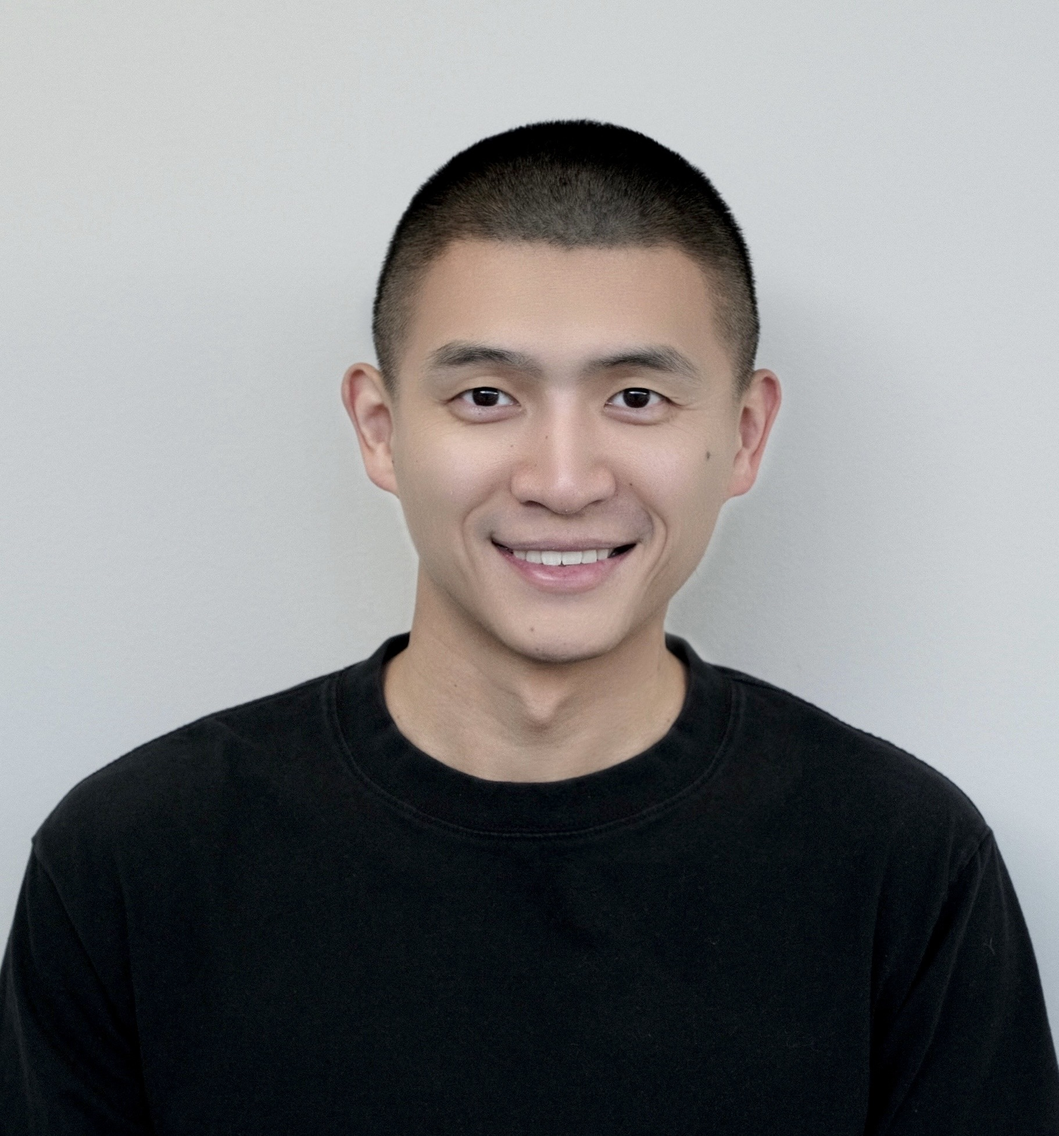
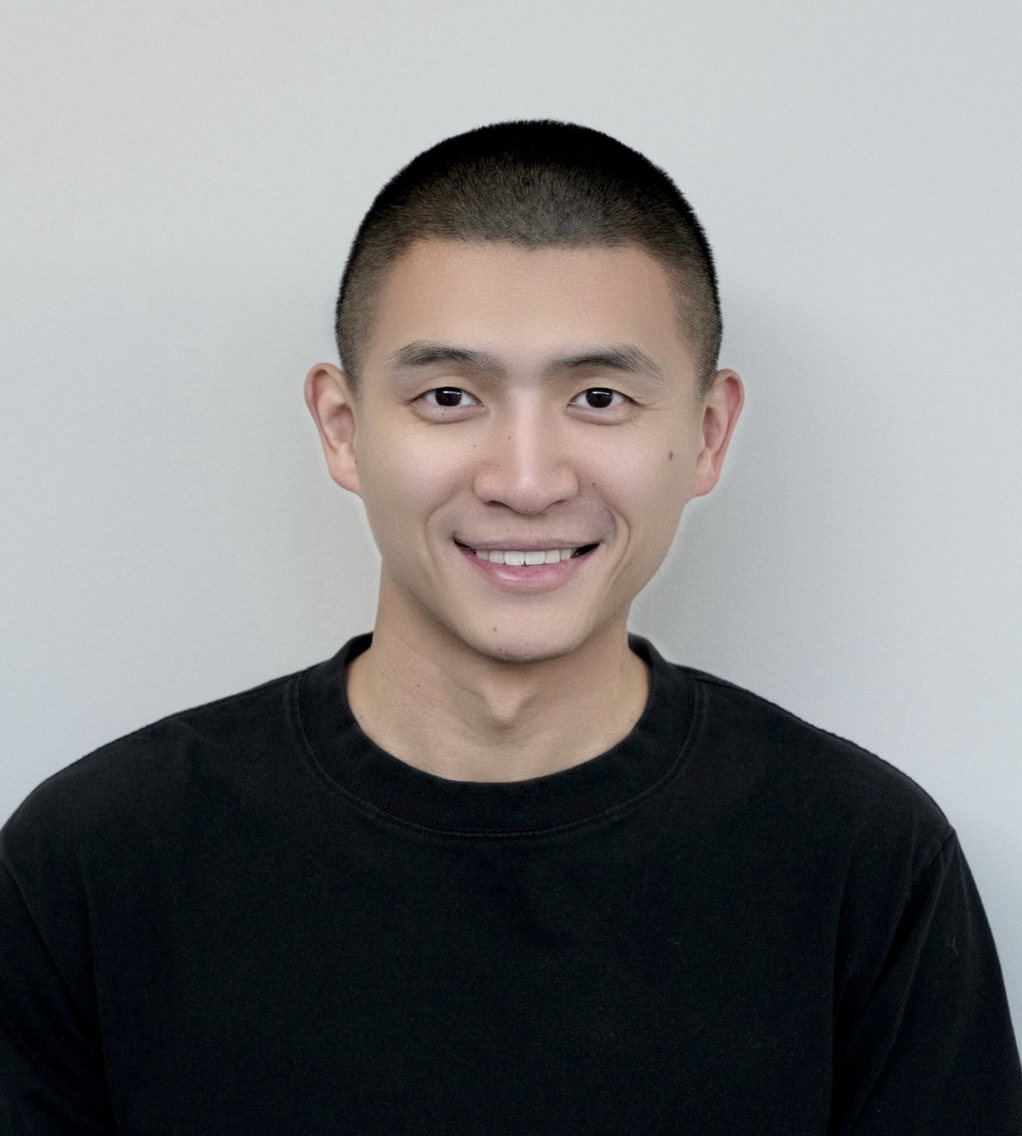
update pic

diff --git a/index.html b/index.html
@@ -148,10 +148,12 @@ body {
                     id=Math.round(Math.random()*3)+1
                     document.write( "<img class=\"img-circle\" src=\""+id+".png\" order=\"0\" width=\"200px\"></br>")
                 </script> -->
-                <img class="img-circle" alt="" src="pic/prof.jpg" onMouseOver="this.src='pic/full.png'" onMouseOut="this.src='pic/jiaqi.png'" border="0" width="250px">
+                <!-- <img class="img-circle" alt="" src="pic/prof.jpg" onMouseOver="this.src='pic/full.png'" onMouseOut="this.src='pic/jiaqi.png'" border="0" width="250px"> -->
                 <!-- <img class="img-circle" alt="" src="pic/black.jpg" onMouseOver="this.src='pic/full.png'" onMouseOut="this.src='pic/black.jpg'" border="0" width="250px"> -->
                 <!-- <img class="img-circle" alt="" src="pic/adidas.jpg" onMouseOver="this.src='pic/full.png'" onMouseOut="this.src='pic/adidas.jpg'" border="0" width="250px"> -->
-			</td>
+                <img class="img-circle" alt="" src="pic/prof.jpg" border="0" width="200px">
+
+            </td>
 		<tr>
 	</tbody>
 </table>

diff --git a/jemdoc.css b/jemdoc.css
@@ -83,7 +83,7 @@ body {
 }
 
 .img-circle {
-    border-radius: 50%;
+    border-radius: 70%;
 }
 
 tt {
